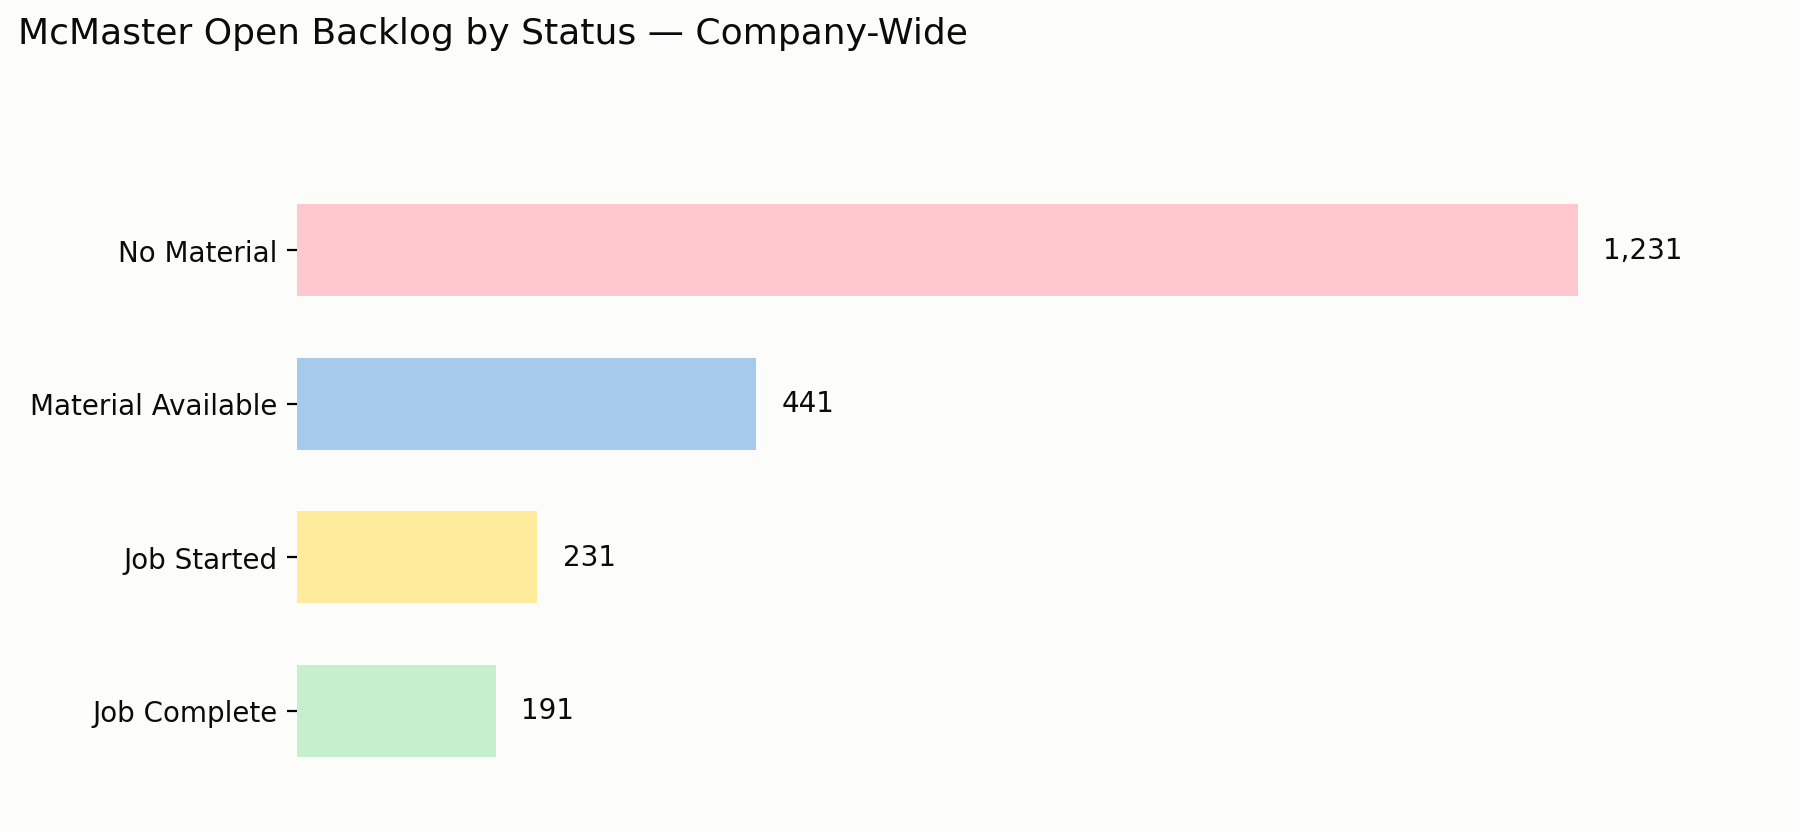
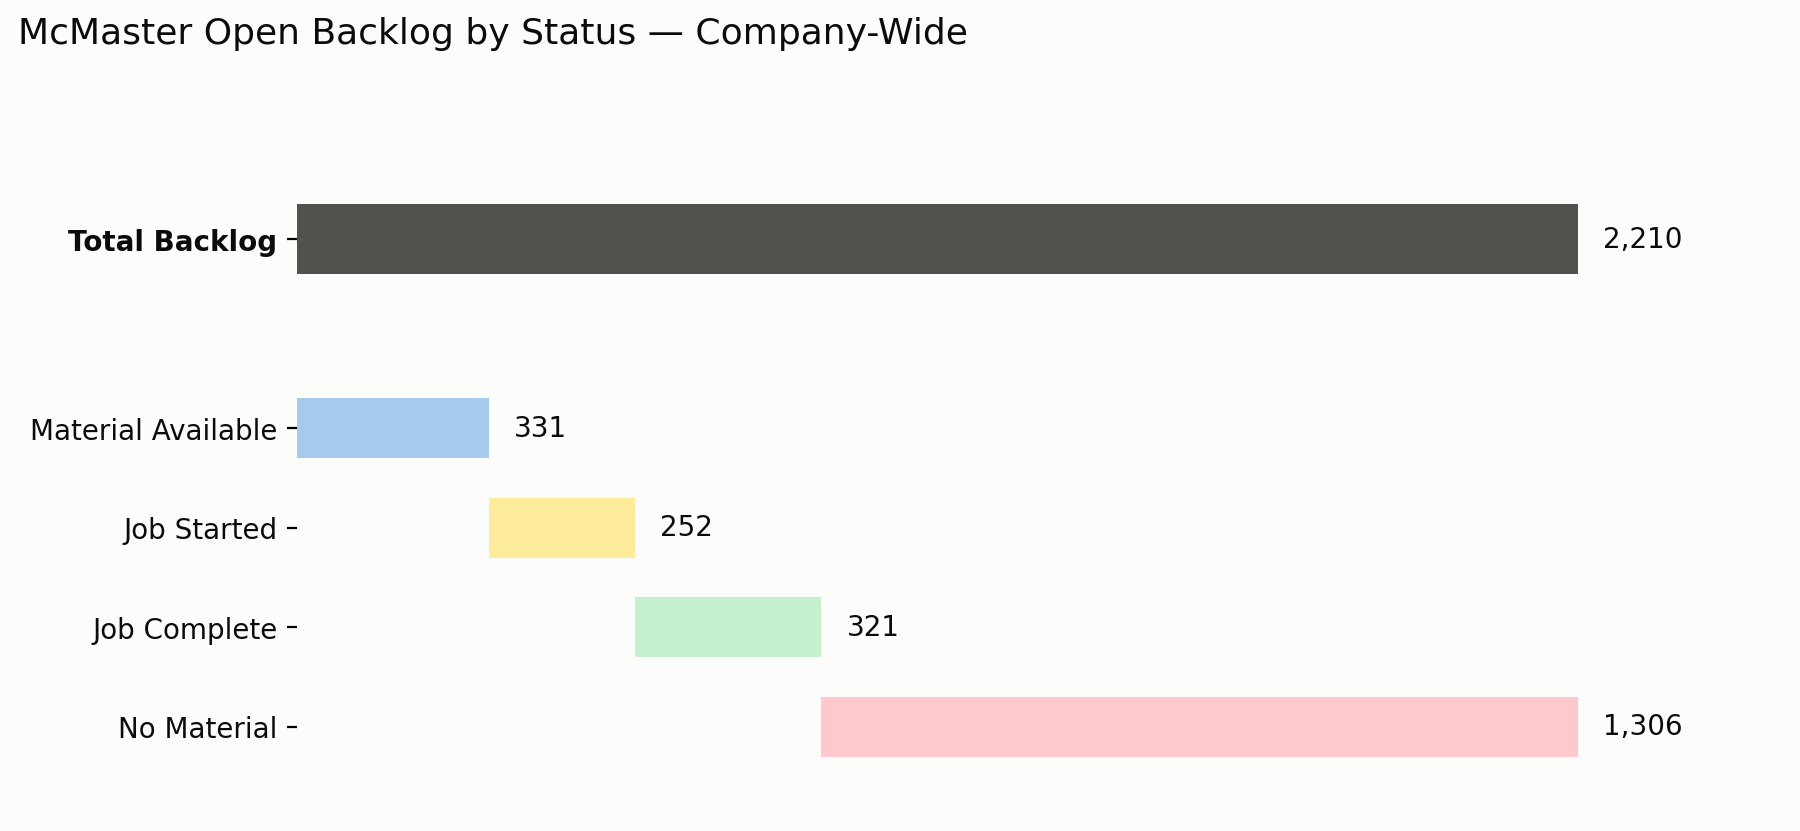
commits

diff --git a/reports/mcmaster/mcmaster_output.py b/reports/mcmaster/mcmaster_output.py
@@ -43,6 +43,7 @@ SEVEN_DAY_FIRST_DATA_ROW = 33
 SEVEN_DAY_COL = 1                     # A
 STATUS_PIVOT_HEADER_ROW = 21
 STATUS_PIVOT_COL = 13                 # M
+STATUS_PIVOT_USD_HEADER_ROW = 31      # a few rows below the counts pivot's Total row (28)
 
 CHART_PATH = os.path.join("reports", "mcmaster", "backlog_trend.png")
 
@@ -222,9 +223,10 @@ def build_7day_activity_table(backlog_daily_df):
     return dates, rows
 
 
-# True fulfillment lifecycle order (from the mcm_status SQL logic), not
-# alphabetical: blocked -> ready -> in production -> done.
-STATUS_ORDER = ["No Material", "Material Available", "Job Started", "Job Complete"]
+# Pipeline stage order, with "No Material" pulled to the end rather than
+# the front — leads with what's actively moving (available -> in production
+# -> done) and puts the blocked/exception bucket last.
+STATUS_ORDER = ["Material Available", "Job Started", "Job Complete", "No Material"]
 
 # Matches the conditional-formatting colors already used for this exact
 # status column on open_backlog_detail (AV) — same status, same color,
@@ -238,51 +240,109 @@ STATUS_COLORS = {
 }
 
 
-def build_backlog_status_pivot(backlog_status_df):
-    """Org rows x status columns, line_count values, totals row/column —
-    columns ordered by pipeline stage, not alphabetically."""
+def build_backlog_status_pivot(backlog_status_df, value_col="line_count"):
+    """Org rows x status columns, totals row/column — columns ordered by
+    pipeline stage, not alphabetically. value_col switches between order
+    counts (line_count) and dollar exposure (total_usd) off the same
+    underlying mart."""
     pivot = backlog_status_df.pivot_table(
-        index="inv_org_code", columns="mcm_status", values="line_count",
+        index="inv_org_code", columns="mcm_status", values=value_col,
         aggfunc="sum", fill_value=0, margins=True, margins_name="Total",
     )
     ordered_cols = [c for c in STATUS_ORDER if c in pivot.columns] + ["Total"]
     return pivot[ordered_cols]
 
 
-def build_status_chart(backlog_status_df, output_path=None, figsize=(9.6, 4.3), dpi=200):
+# Accounting-style format matching the counts pivot's own (see the template's
+# N21:R28), just with a $ prefix and no decimals — the mart holds cents-
+# precision totals, so this rounds for display only, not the stored value.
+USD_NUMBER_FORMAT = '_($* #,##0_);_($* \\(#,##0\\);_($* "-"??_);_(@_)'
+
+
+def _write_status_pivot(ws, pivot, header_row, col, cast):
+    """Write a status pivot's header/org/Total rows starting at header_row,
+    col (the org/status label column) — shared by the counts and $ pivots."""
+    ws.cell(header_row, col, "org")
+    for j, status in enumerate(pivot.columns):
+        ws.cell(header_row, col + 1 + j, status)
+    for i, org in enumerate(pivot.index):
+        row = header_row + 1 + i
+        ws.cell(row, col, org)
+        for j, status in enumerate(pivot.columns):
+            ws.cell(row, col + 1 + j, cast(pivot.loc[org, status]))
+
+
+def _copy_status_pivot_style(ws, pivot, src_header_row, dst_header_row, col, number_format):
     """
-    Company-wide (no org breakdown) horizontal bar, one bar per pipeline
-    stage in true lifecycle order, single-hue light->dark ramp so the
-    sequence reads through position AND color. Direct value labels — only
-    4 categories, no legend needed.
+    Copy the counts pivot's per-cell font/border/fill onto the new $ pivot
+    below it, row-for-row (header -> header, each org row -> the matching
+    org row, Total -> Total) so the two tables look like one hand-formatted
+    design instead of the new one appearing unstyled. number_format is
+    overridden on the value columns only — the label column (org names)
+    keeps its own General format from the source row.
+    """
+    n_cols = len(pivot.columns)
+    n_rows = len(pivot.index)  # includes the Total row (pivot_table margins)
+    for row_offset in range(n_rows + 1):  # +1 for the header row
+        src_row = src_header_row + row_offset
+        dst_row = dst_header_row + row_offset
+        for col_offset in range(n_cols + 1):  # +1 for the label column
+            src_cell = ws.cell(src_row, col + col_offset)
+            dst_cell = ws.cell(dst_row, col + col_offset)
+            dst_cell.font = _font_from_key(_font_key(src_cell.font))
+            dst_cell.border = _border_from_key(_border_key(src_cell.border))
+            dst_cell.fill = _fill_from_key(_fill_key(src_cell.fill))
+            is_label_col = col_offset == 0
+            is_header_row = row_offset == 0
+            dst_cell.number_format = src_cell.number_format if (is_label_col or is_header_row) else number_format
+
+
+def build_status_chart(backlog_status_df, output_path=None, figsize=(9.6, 4.8), dpi=200):
+    """
+    Company-wide (no org breakdown) waterfall: a grey Total Backlog bar,
+    then each pipeline stage below it as a horizontal bar offset by the
+    running total of the stages already drawn — so each segment starts
+    where the previous one ended, and the last segment's right edge lands
+    exactly under the Total bar's right edge. That makes the total visibly
+    the sum of its parts instead of something you'd otherwise have to add
+    up yourself. Stage order matches the summary pivot tables (STATUS_ORDER,
+    "No Material" last, since it's the exception bucket, not the lead stage).
     """
     if output_path is None:
         output_path = os.path.join("reports", "mcmaster", "status_chart.png")
 
     totals = backlog_status_df.groupby("mcm_status")["line_count"].sum()
     totals = totals.reindex([s for s in STATUS_ORDER if s in totals.index])
+    grand_total = totals.sum()
+    cum_starts = totals.cumsum().shift(fill_value=0)
+
+    labels = ["Total Backlog"] + list(totals.index)
+    values = [grand_total] + list(totals.values)
+    lefts = [0] + list(cum_starts.values)
+    colors = [COLOR_BACKLOG] + [STATUS_COLORS[s] for s in totals.index]
 
     fig, ax = plt.subplots(figsize=figsize, dpi=dpi)
     fig.patch.set_facecolor("#fcfcfb")
     ax.set_facecolor("#fcfcfb")
 
-    y_pos = range(len(totals))
-    bars = ax.barh(
-        y_pos, totals.values,
-        color=[STATUS_COLORS[s] for s in totals.index], height=0.6, zorder=2,
-    )
-    ax.set_yticks(list(y_pos))
-    ax.set_yticklabels(totals.index, fontsize=10, color="#0b0b0b")
-    ax.invert_yaxis()  # earliest stage on top, reads top-to-bottom as progression
+    # Extra gap between the Total bar and the stage bars below it visually
+    # separates "the answer" from "the working" — not an even row spacing.
+    GAP = 0.9
+    y_pos = [0] + [1 + GAP + i for i in range(len(totals))]
+    bar_heights = [0.7] + [0.6] * len(totals)
+    bars = ax.barh(y_pos, values, left=lefts, color=colors, height=bar_heights, zorder=2)
+    ax.set_yticks(y_pos)
+    ax.set_yticklabels(labels, fontsize=10, color="#0b0b0b")
+    ax.get_yticklabels()[0].set_fontweight("bold")
+    ax.invert_yaxis()  # Total on top, stages read top-to-bottom below it
 
-    max_val = totals.values.max()
-    for bar, value in zip(bars, totals.values):
+    for bar, value in zip(bars, values):
         ax.text(
-            bar.get_width() + max_val * 0.02, bar.get_y() + bar.get_height() / 2,
+            bar.get_x() + bar.get_width() + grand_total * 0.02, bar.get_y() + bar.get_height() / 2,
             f"{int(value):,}", va="center", ha="left", fontsize=10, color="#0b0b0b",
         )
 
-    ax.set_xlim(0, max_val * 1.15)
+    ax.set_xlim(0, grand_total * 1.15)
     ax.set_xticks([])
     for spine in ("top", "right", "bottom", "left"):
         ax.spines[spine].set_visible(False)
@@ -394,14 +454,20 @@ def update_live_summary_sheet(wb, backlog_daily_df, backlog_status_df):
             ws.cell(row, SEVEN_DAY_COL + 2 + i).value = None if pd.isna(v) else v
         ws.cell(row, ma_col).value = None if pd.isna(ma_value) else ma_value
 
-    pivot = build_backlog_status_pivot(backlog_status_df)
-    for j, status in enumerate(pivot.columns):
-        ws.cell(STATUS_PIVOT_HEADER_ROW, STATUS_PIVOT_COL + 1 + j, status)
-    for i, org in enumerate(pivot.index):
-        row = STATUS_PIVOT_HEADER_ROW + 1 + i
-        ws.cell(row, STATUS_PIVOT_COL, org)
-        for j, status in enumerate(pivot.columns):
-            ws.cell(row, STATUS_PIVOT_COL + 1 + j, int(pivot.loc[org, status]))
+    pivot = build_backlog_status_pivot(backlog_status_df, value_col="line_count")
+    _write_status_pivot(ws, pivot, STATUS_PIVOT_HEADER_ROW, STATUS_PIVOT_COL, cast=int)
+
+    # $ exposure version of the same pivot, a few rows below — no
+    # hand-formatting exists at this row range in the template (unlike
+    # every other fixed block on this sheet), so styling is copied down
+    # from the counts pivot immediately above rather than left blank.
+    usd_pivot = build_backlog_status_pivot(backlog_status_df, value_col="total_usd")
+    _write_status_pivot(ws, usd_pivot, STATUS_PIVOT_USD_HEADER_ROW, STATUS_PIVOT_COL, cast=float)
+    _copy_status_pivot_style(
+        ws, usd_pivot, src_header_row=STATUS_PIVOT_HEADER_ROW,
+        dst_header_row=STATUS_PIVOT_USD_HEADER_ROW, col=STATUS_PIVOT_COL,
+        number_format=USD_NUMBER_FORMAT,
+    )
 
     return ws
 

diff --git a/etl/extract/sharepoint/sharepoint_extract.py b/etl/extract/sharepoint/sharepoint_extract.py
@@ -47,6 +47,11 @@ def extract_open_orders() -> pd.DataFrame:
             for i, col in enumerate(df.columns)
         ]
 
+        # Conform to the canonical schema: drop stray columns this sheet has
+        # that aren't in the reference sheet (e.g. blank/extra header cells),
+        # and fill in any columns this sheet is missing.
+        df = df.reindex(columns=reference_cols)
+
         df["source_tab"] = sheet_name
         try:
             df["snapshot_date"] = pd.to_datetime(sheet_name.strip(), format="%m.%d.%y")

diff --git a/pipelines/run_all_ingest.py b/pipelines/run_all_ingest.py
@@ -161,11 +161,11 @@ def run_all_hr_ingestions():
 
 def run_all_ingestions():
     #run_all_banner_ingestions()
-    run_all_castle_ingestions()
+    #run_all_castle_ingestions()
     #run_all_vorne_ingestions()
     #run_all_other_ingestions()
     #run_all_hr_ingestions()
-    run_all_sharepoint_ingestions()
+    #run_all_sharepoint_ingestions()
     run_all_oracle_ingestions()
     #run_all_oracle_di_ingestions()
     